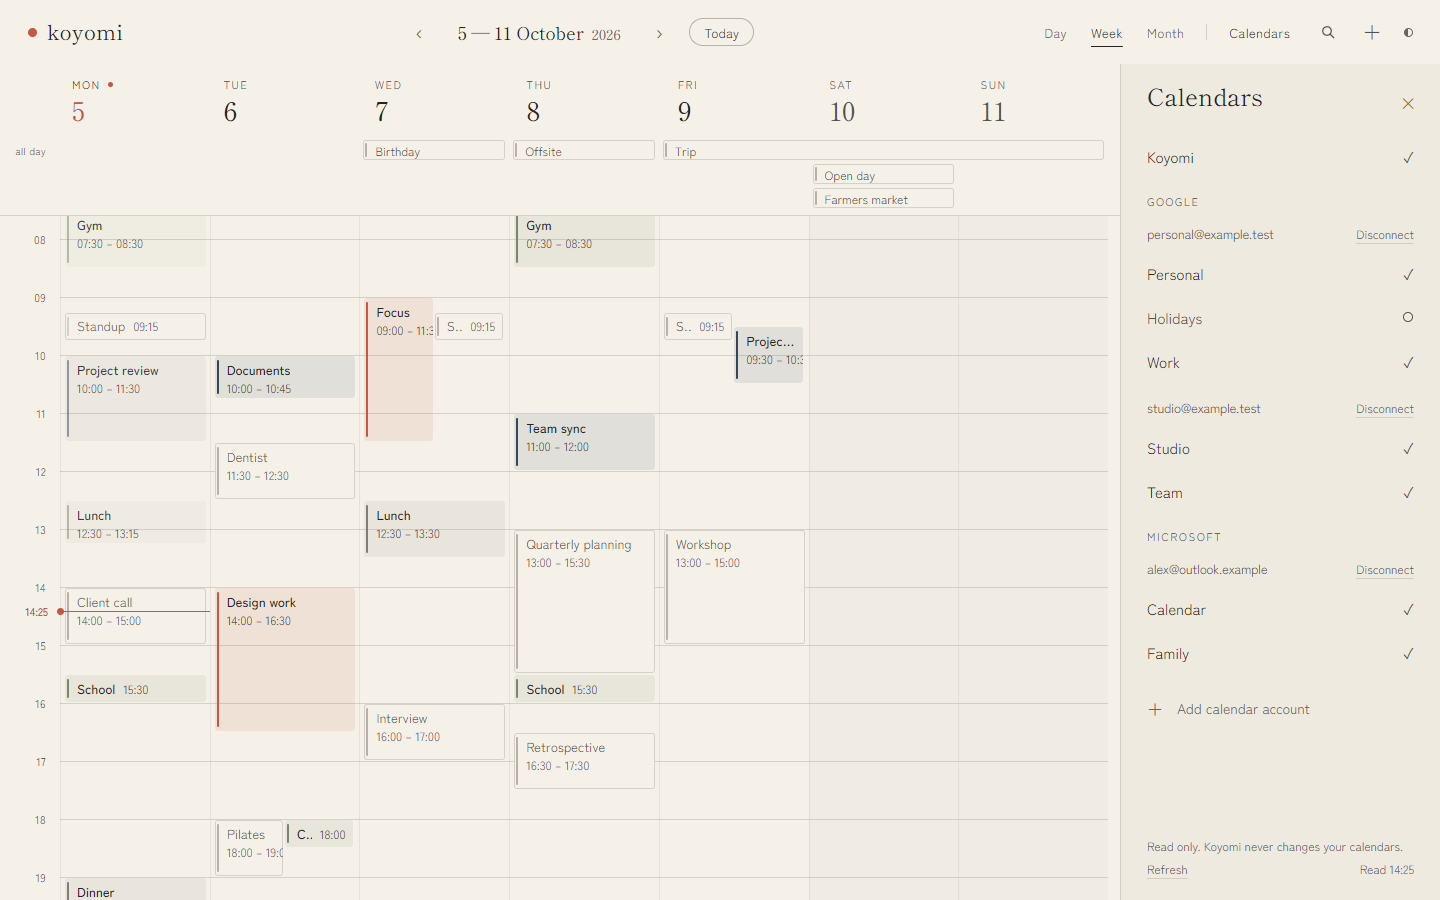
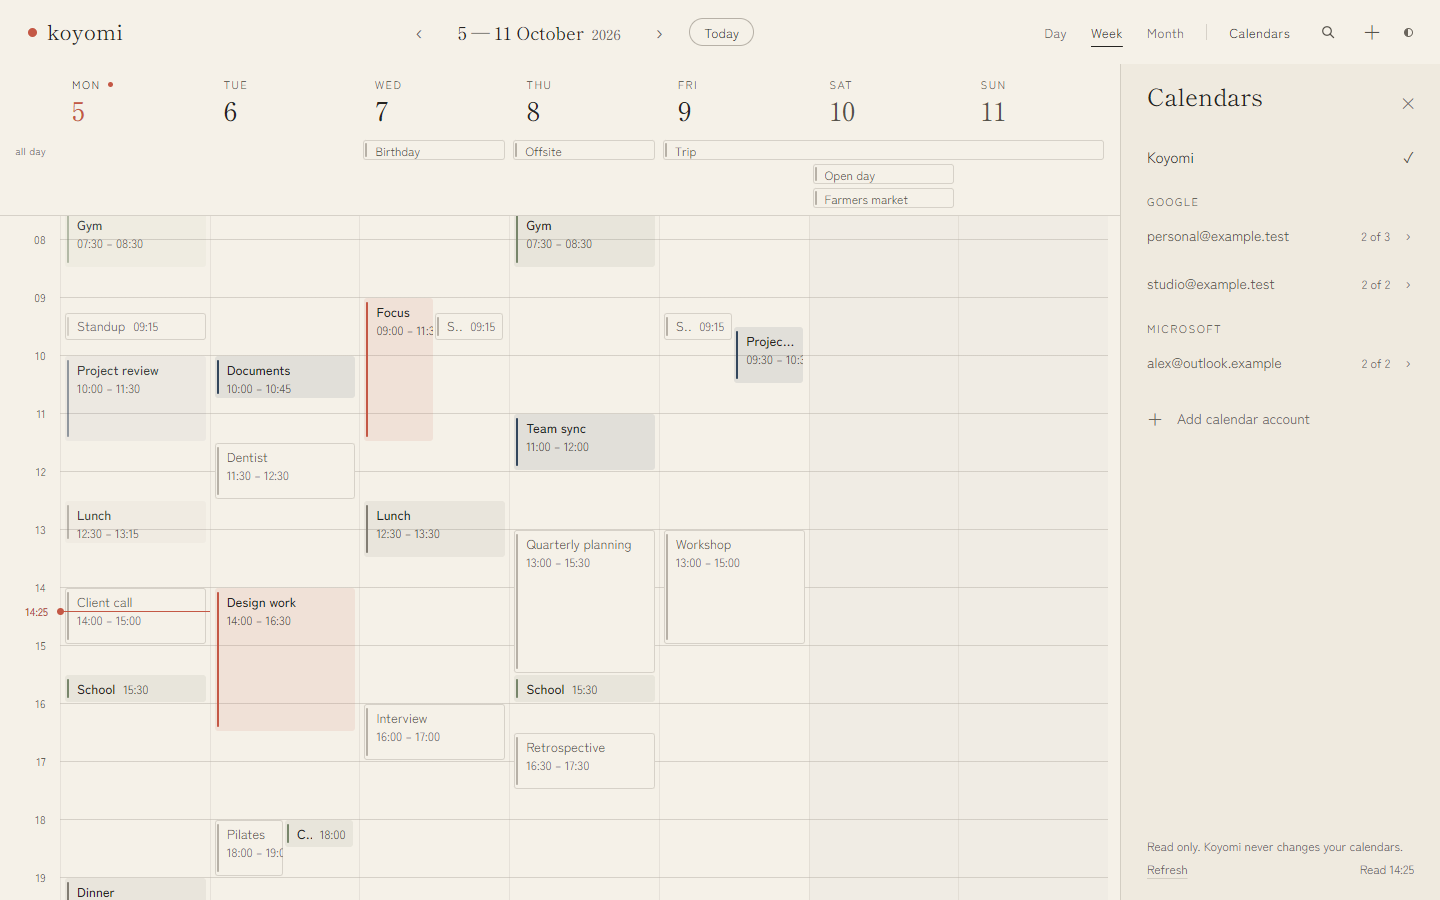
Fold each account in Calendars to one line when there are several (#27)
With two Google accounts and a Microsoft one, the drawer listed every
calendar of every account and the last account was hard to find. Each
account is now its address, how many of its calendars are shown, and a
chevron; pressing it opens the switches and Disconnect. Which are open is
remembered on the device. An account that needs reconnecting or can't be
read opens by itself, and says so on its line if folded. A single account
stays open, as before.

diff --git a/components/CalendarsPanel.tsx b/components/CalendarsPanel.tsx
@@ -15,6 +15,20 @@ const GROUP = 'px-3.5 text-[10.5px] tracking-[.18em] text-dow';
 /** What Koyomi reads from a connected calendar, where it is kept and what it is used for. */
 const PRIVACY = 'https://koyomi.guru/privacy';
 
+/**
+ * Which accounts the person has opened or closed in Calendars, on this device: a convenience,
+ * nothing more. Without it every account starts as it would on a new device.
+ */
+const FOLDS = 'koyomi-calendars-open';
+const readFolds = (): Record<string, boolean> => {
+  try {
+    const kept = JSON.parse(localStorage.getItem(FOLDS) ?? '{}');
+    return kept && typeof kept === 'object' ? kept : {};
+  } catch {
+    return {};
+  }
+};
+
 const readAt = (iso: string) => {
   const d = new Date(iso);
   const sameDay = d.toDateString() === new Date().toDateString();
@@ -49,6 +63,20 @@ export function CalendarsPanel({ mobile, open, pushes, external, onClose }: Prop
   // What the words below are about: the providers of the accounts there are, or that could be added.
   const connected = which(connections.map((connection) => connection.provider));
   const offered = which(providers);
+  // With several accounts, each is one line until it is opened: its address, how many of its
+  // calendars are shown, and the way in. With one, there is nothing to fold away.
+  const [folds, setFolds] = useState<Record<string, boolean>>({});
+  useEffect(() => setFolds(readFolds()), []);
+  const fold = (id: string, opened: boolean) =>
+    setFolds((now) => {
+      const next = { ...now, [id]: opened };
+      try {
+        localStorage.setItem(FOLDS, JSON.stringify(next));
+      } catch {
+        // No storage: the choice lasts as long as this page.
+      }
+      return next;
+    });
 
   return (
     <section
@@ -97,38 +125,63 @@ export function CalendarsPanel({ mobile, open, pushes, external, onClose }: Prop
                 // An account is known by its address. Until that has been read, by what it is.
                 const name = connection.account ?? provider.unnamed;
                 const own = calendars.filter((calendar) => calendar.connectionId === connection.id);
+                // Open where the person opened it; otherwise when it is the only account, or when
+                // something about it needs them.
+                const opened = folds[connection.id] ?? (connections.length === 1 || connection.status !== 'connected');
+                const shown = own.filter((calendar) => calendar.visible).length;
+                // Folded, what needs the person is said on the account's own line. Open, it is said below.
+                const attention = connection.status === 'reconnect' ? 'Needs reconnecting' : connection.status === 'blocked' ? 'Can’t be read' : null;
+                const summary = attention ? (opened ? '' : attention) : own.length ? `${shown} of ${own.length}` : '';
+                const body = `account-${connection.id}`;
                 return (
-                  <div key={connection.id} role="group" aria-label={name} className="mt-1.5">
-                    <div className="flex min-h-9 items-center gap-3 px-3.5">
-                      <span className="min-w-0 flex-1 truncate text-[12.5px] text-ink2">{name}</span>
-                      <button onClick={() => void disconnect(connection.id)} disabled={syncing} aria-label={`Disconnect ${name}`} className={`flex-none text-[12px] text-muted ${QUIET}`}>
-                        Disconnect
-                      </button>
-                    </div>
-                    {own.map((c) => (
-                      <button
-                        key={c.id}
-                        role="switch"
-                        aria-checked={c.visible}
-                        onClick={() => void showCalendar(c.id, !c.visible)}
-                        className={`${ROW} w-full text-left text-[15px] hover:bg-wash ${mobile ? 'min-h-[52px]' : ''}`}
-                      >
-                        <span className={`min-w-0 flex-1 truncate ${c.visible ? 'text-ink' : 'text-ink2'}`}>{c.name}</span>
-                        {c.visible ? <span className="text-ink2">✓</span> : <span className="mr-px size-2.5 rounded-full border border-ink2" />}
-                      </button>
-                    ))}
-                    {!own.length && connection.status === 'connected' && <p className="px-3.5 py-2 text-[13px] text-muted">{syncing ? 'Reading its calendars…' : 'No calendars yet.'}</p>}
-                    {/* Only when the provider itself has refused this account's permission. The others carry on. */}
-                    {connection.status === 'reconnect' && (
-                      <div className={`${ROW} text-[13px] text-ink2`}>
-                        <span className="flex-1">Needs reconnecting</span>
-                        <button onClick={() => reconnect(connection)} aria-label={`Reconnect ${name}`} className={PILL}>
-                          Reconnect
-                        </button>
+                  <div key={connection.id} role="group" aria-label={name} className="mt-1">
+                    <button
+                      data-account
+                      aria-expanded={opened}
+                      aria-controls={body}
+                      onClick={() => fold(connection.id, !opened)}
+                      className={`${ROW} w-full text-left hover:bg-wash ${mobile ? 'min-h-[52px]' : ''}`}
+                    >
+                      <span className="min-w-0 flex-1 truncate text-[14px] text-ink2">{name}</span>
+                      {summary && <span className="flex-none text-[12px] text-muted tabular-nums">{summary}</span>}
+                      <span aria-hidden className={`w-3 flex-none text-center text-[14px] text-muted transition-transform duration-150 ${opened ? 'rotate-90' : ''}`}>
+                        ›
+                      </span>
+                    </button>
+                    {opened && (
+                      <div id={body}>
+                        {own.map((c) => (
+                          <button
+                            key={c.id}
+                            role="switch"
+                            aria-checked={c.visible}
+                            onClick={() => void showCalendar(c.id, !c.visible)}
+                            className={`${ROW} w-full text-left text-[15px] hover:bg-wash ${mobile ? 'min-h-[52px]' : ''}`}
+                          >
+                            <span className={`min-w-0 flex-1 truncate ${c.visible ? 'text-ink' : 'text-ink2'}`}>{c.name}</span>
+                            {c.visible ? <span className="text-ink2">✓</span> : <span className="mr-px size-2.5 rounded-full border border-ink2" />}
+                          </button>
+                        ))}
+                        {!own.length && connection.status === 'connected' && <p className="px-3.5 py-2 text-[13px] text-muted">{syncing ? 'Reading its calendars…' : 'No calendars yet.'}</p>}
+                        {/* Only when the provider itself has refused this account's permission. The others carry on. */}
+                        {connection.status === 'reconnect' && (
+                          <div className={`${ROW} text-[13px] text-ink2`}>
+                            <span className="flex-1">Needs reconnecting</span>
+                            <button onClick={() => reconnect(connection)} aria-label={`Reconnect ${name}`} className={PILL}>
+                              Reconnect
+                            </button>
+                          </div>
+                        )}
+                        {/* Not something consenting again would mend, so there is nothing to press but Disconnect. */}
+                        {connection.status === 'blocked' && <p className="px-3.5 py-2 text-[13px] text-muted">{provider.blocked}</p>}
+                        {/* Last, and only once the account is opened: ending it is never one stray tap away. */}
+                        <div className="flex min-h-9 items-center justify-end px-3.5">
+                          <button onClick={() => void disconnect(connection.id)} disabled={syncing} aria-label={`Disconnect ${name}`} className={`text-[12px] text-muted ${QUIET}`}>
+                            Disconnect
+                          </button>
+                        </div>
                       </div>
                     )}
-                    {/* Not something consenting again would mend, so there is nothing to press but Disconnect. */}
-                    {connection.status === 'blocked' && <p className="px-3.5 py-2 text-[13px] text-muted">{provider.blocked}</p>}
                   </div>
                 );
               })}

diff --git a/tests/e2e/accounts.spec.ts b/tests/e2e/accounts.spec.ts
@@ -6,6 +6,7 @@ import {
   ME,
   NOW,
   actAs,
+  accountLine,
   addAt,
   addButton,
   allDay,
@@ -114,6 +115,55 @@ async function both(page: Page, id: string) {
 test.describe.configure({ timeout: 90_000 });
 /** For an answer on its way back through the server: allow for a busy machine, as `connect` does. */
 const BACK = { timeout: 15_000 };
+
+test.describe('Calendars with several accounts', () => {
+  test('each account is one line until it is opened: its address and how many of its calendars are shown', async ({ page, id }) => {
+    const other = await both(page, id);
+    // As a device that has never opened either: what the tests opened on the way is forgotten.
+    await page.evaluate(() => localStorage.removeItem('koyomi-calendars-open'));
+    await reload(page);
+    await page.keyboard.press('c');
+    await expect(view(page)).toBeVisible();
+
+    // Two lines, folded: nothing of either account's calendars, and no Disconnect to hit by mistake.
+    await expect(accountLine(page, ME)).toHaveAttribute('aria-expanded', 'false');
+    await expect(accountLine(page, THEM)).toHaveAttribute('aria-expanded', 'false');
+    await expect(accountLine(page, ME)).toHaveText(`${ME}2 of 3›`);
+    await expect(accountLine(page, THEM)).toHaveText(`${THEM}3 of 3›`);
+    await expect(view(page).getByRole('switch')).toHaveCount(0);
+    await expect(view(page).getByRole('button', { name: /^Disconnect/ })).toHaveCount(0);
+    await expect(view(page).getByRole('button', { name: 'Refresh' })).toBeVisible();
+
+    // One opened: its calendars and its own Disconnect, last. The other stays as it was.
+    await accountLine(page, ME).click();
+    await expect(accountLine(page, ME)).toHaveAttribute('aria-expanded', 'true');
+    await expect(group(page, ME).getByRole('switch')).toHaveText(['Personal✓', 'Holidays', 'Work✓']);
+    await expect(disconnectButton(page, ME)).toBeVisible();
+    await expect(group(page, THEM).getByRole('switch')).toHaveCount(0);
+    // Hiding one says so on its line straight away.
+    await toggle(page, 'Work', ME).click();
+    await expect(accountLine(page, ME)).toHaveText(`${ME}1 of 3›`);
+
+    // Remembered on this device, account by account.
+    await reload(page);
+    await page.keyboard.press('c');
+    await expect(accountLine(page, ME)).toHaveAttribute('aria-expanded', 'true');
+    await expect(accountLine(page, THEM)).toHaveAttribute('aria-expanded', 'false');
+    await accountLine(page, ME).click();
+    await expect(group(page, ME).getByRole('switch')).toHaveCount(0);
+
+    // An account that needs the person opens by itself, with what to do.
+    await google.becomes(other, { revoked: true });
+    await view(page).getByRole('button', { name: 'Refresh' }).click();
+    await expect(accountLine(page, THEM)).toHaveAttribute('aria-expanded', 'true', BACK);
+    await expect(group(page, THEM).getByRole('button', { name: 'Reconnect' })).toBeVisible();
+    // One the person folded themselves stays folded, and says it on its line instead.
+    await google.becomes(id, { revoked: true });
+    await view(page).getByRole('button', { name: 'Refresh' }).click();
+    await expect(accountLine(page, ME)).toHaveText(`${ME}Needs reconnecting›`, BACK);
+    await expect(accountLine(page, ME)).toHaveAttribute('aria-expanded', 'false');
+  });
+});
 
 test.describe('adding a second account', () => {
   test('goes to Google to choose it, leaves the first as it was, and shows both under their addresses', async ({ page, id }) => {

diff --git a/tests/e2e/connected.ts b/tests/e2e/connected.ts
@@ -127,11 +127,26 @@ export async function start(page: Page) {
   await open(page);
 }
 
+/** One account's own line in Calendars, which opens and folds it. */
+export const accountLine = (page: Page, address: string) => group(page, address).locator('[data-account]');
+
+/**
+ * Opens every account that is folded. With several accounts connected each starts as one line;
+ * the tests that are not about that want to reach their calendars as they always could.
+ */
+export async function unfold(page: Page) {
+  const folded = view(page).locator('[data-account][aria-expanded="false"]');
+  for (let left = await folded.count(); left > 0; left = await folded.count()) await folded.first().click();
+}
+
+/** Opens Calendars, with every account in it opened. */
 export async function openCalendars(page: Page) {
-  if (await view(page).isVisible()) return;
-  if (mobile(page)) await calendarsButton(page).tap();
-  else await page.keyboard.press('c');
-  await expect(view(page)).toBeVisible();
+  if (!(await view(page).isVisible())) {
+    if (mobile(page)) await calendarsButton(page).tap();
+    else await page.keyboard.press('c');
+    await expect(view(page)).toBeVisible();
+  }
+  await unfold(page);
 }
 
 export async function closeDrawer(page: Page) {
@@ -182,6 +197,7 @@ export async function connectMicrosoft(page: Page, account: string, address: str
   await openCalendars(page);
   await addAt(page, 'Microsoft');
   await expect(group(page, address)).toBeVisible({ timeout: 15_000 });
+  await unfold(page);
   await expect(group(page, address).getByRole('switch').first()).toBeVisible();
   await expect(view(page).getByText('Refreshing…')).toHaveCount(0, { timeout: 15_000 });
 }
@@ -196,8 +212,15 @@ export const pick = (page: Page, googleAccount: string) => page.context().addCoo
 export async function connect(page: Page) {
   await openCalendars(page);
   await addAt(page, 'Google');
-  // Two round trips and a first reading: allow for a busy machine.
-  await expect(toggle(page, 'Personal')).toBeVisible({ timeout: 15_000 });
+  // Two round trips and a first reading: allow for a busy machine. Beside another account it
+  // arrives folded, so it is opened as it comes.
+  await expect
+    .poll(async () => {
+      await unfold(page);
+      return toggle(page, 'Personal').count();
+    }, { timeout: 15_000 })
+    .toBeGreaterThan(0);
+  await expect(toggle(page, 'Personal')).toBeVisible();
   await expect(view(page).getByText(/^Read \d/)).toBeVisible();
 }
 
@@ -210,6 +233,7 @@ export async function connectAlso(page: Page, googleAccount: string, address: st
   await openCalendars(page);
   await addAt(page, 'Google');
   await expect(group(page, address)).toBeVisible({ timeout: 15_000 });
+  await unfold(page);
   await expect(group(page, address).getByRole('switch').first()).toBeVisible();
   await expect(view(page).getByText('Refreshing…')).toHaveCount(0, { timeout: 15_000 });
 }

diff --git a/docs/design/DESIGN_BASELINE.md b/docs/design/DESIGN_BASELINE.md
@@ -99,10 +99,10 @@ connected. It took over Plan's place exactly, so nothing about the frame moved:
   It opens the same bottom sheet.
 - **The drawer is a list, not a settings page.** "Koyomi", always shown and ticked. Then, under
   a small "GOOGLE" heading, and a "MICROSOFT" one below it in the same style, each connected
-  account: its address as a quiet line with "Disconnect" as text beside it, and its calendars
-  under it, each a row that is on (a tick) or off (a ring). A heading is there only when an
-  account is under it. Then "＋ Add calendar account", drawn like Plan's old "＋ Add" row. Where
-  both providers are offered, pressing it opens two quiet rows under it, "Google" and
+  account: its address as a quiet line, and its calendars under it, each a row that is on (a
+  tick) or off (a ring), then "Disconnect" as small text at the end, on the right. A heading is
+  there only when an account is under it. Then "＋ Add calendar account", drawn like Plan's old
+  "＋ Add" row. Where both providers are offered, pressing it opens two quiet rows under it, "Google" and
   "Microsoft", in the row's own type and indented to its text, and nothing more; pressing it
   again closes them. Where only one is offered, it goes straight there. With nothing connected,
   one sentence under it says what adding an account means, naming the providers offered, with a
@@ -110,6 +110,12 @@ connected. It took over Plan's place exactly, so nothing about the frame moved:
   Refresh and when things were last read are text at the foot, with "Install Koyomi" when the
   browser offers it. No avatars, no provider logos, no account screen, nothing about how an
   account is connected.
+- **With more than one account, each is one line until it is opened.** The address, how many of
+  its calendars are shown ("2 of 3") in muted figures, and a small "›" that turns down when it is
+  open. Pressing the line opens or folds it; the calendars and Disconnect are only inside. Each
+  device remembers which it has open. An account that needs reconnecting, or can't be read,
+  opens by itself; if the person folds it, its line says so instead of the count. With one
+  account there is nothing to fold, and its calendars are simply there.
 - **Accounts are told apart by their address and nothing else.** No colour for each account, on
   the list or on the calendar.
 
@@ -128,7 +134,8 @@ pictures with Microsoft with `npm run screenshots -- --microsoft`.
 | --- | --- |
 | Desktop Week with Google events | [light](desktop-week-google-light.png), [dark](desktop-week-google-dark.png) |
 | A Google event open | [desktop-google-event-light.png](desktop-google-event-light.png) |
-| Calendars with two accounts | [desktop-calendars-light.png](desktop-calendars-light.png) |
+| Calendars with two accounts, folded | [desktop-calendars-light.png](desktop-calendars-light.png) |
+| Calendars with one account opened | [desktop-calendars-open-light.png](desktop-calendars-open-light.png) |
 | Phone Calendars with two accounts | [mobile-calendars-google-light.png](mobile-calendars-google-light.png) |
 | Phone Day with Google events | [mobile-day-google-light.png](mobile-day-google-light.png) |
 | Calendars with Google and Microsoft accounts | [desktop-calendars-microsoft-light.png](desktop-calendars-microsoft-light.png) |
@@ -160,7 +167,8 @@ pictures with Microsoft with `npm run screenshots -- --microsoft`.
   all. The words name the provider of the accounts concerned: "Microsoft calendar needs
   reconnecting", and "Calendars need reconnecting" or "your calendars" where both are. A
   Microsoft account that Microsoft will not let be read at all says so under it in one muted
-  line, with nothing to press but Disconnect.
+  line, with nothing to press but Disconnect. Folded, these show on the account's own line as
+  "Needs reconnecting" or "Can’t be read".
 
 ## Differences from the prototype
 
